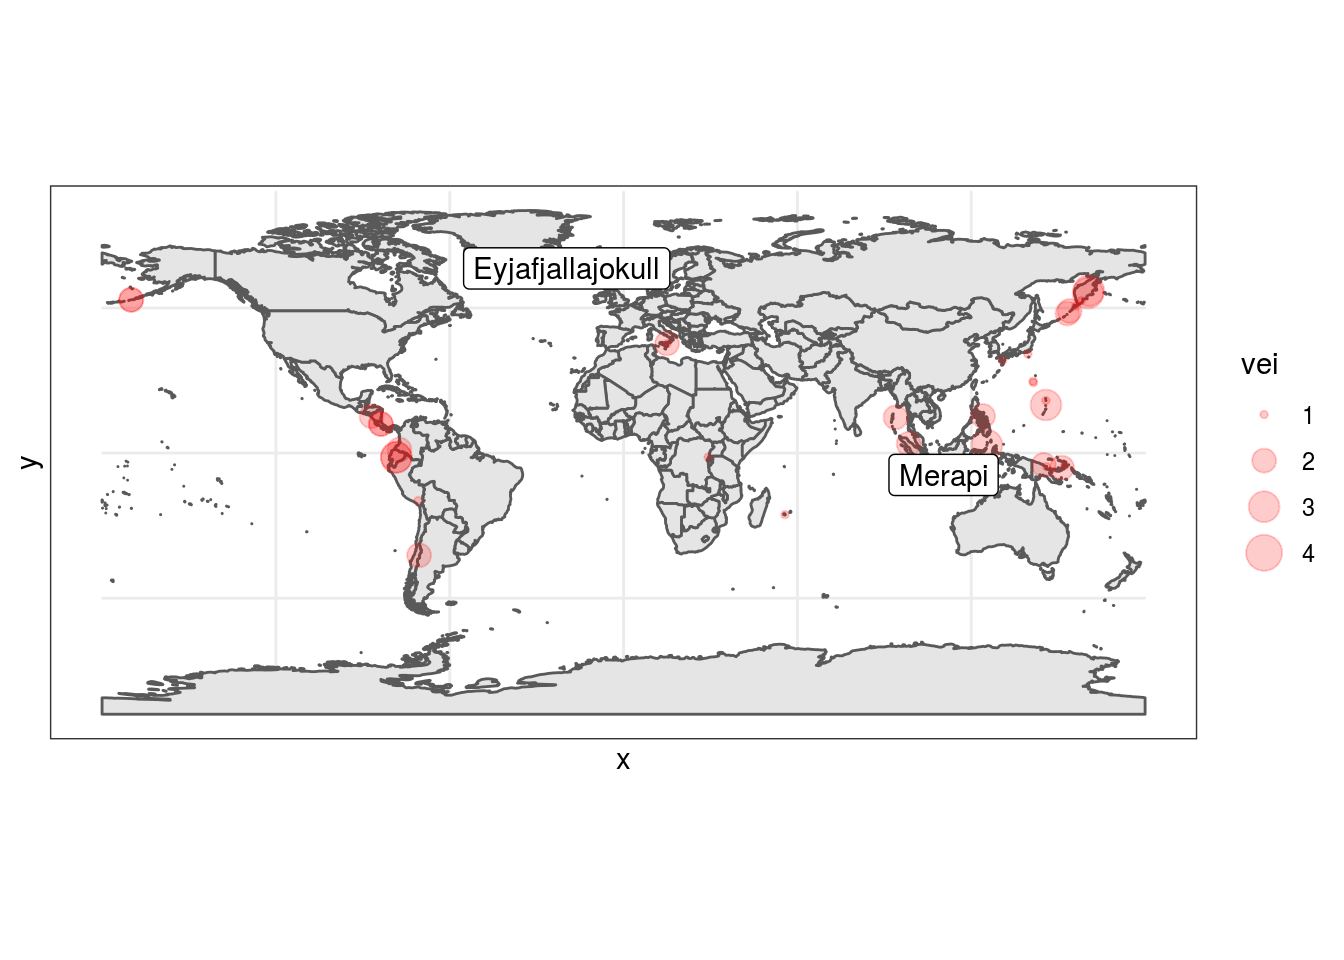
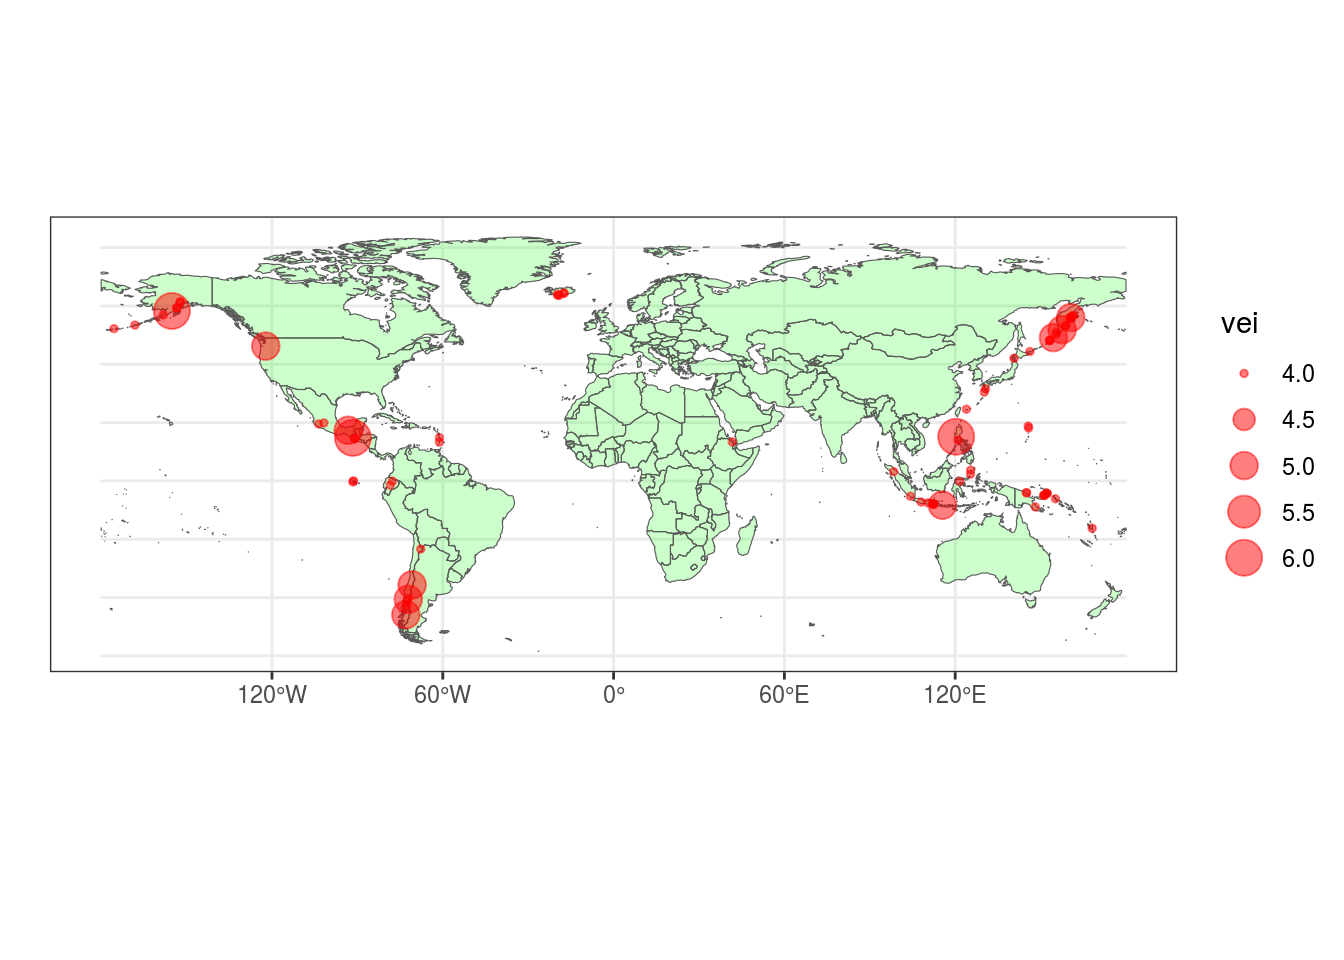
volcano plot looking okayish

Changed region(s): [[0.0625, 0.2188, 1.0, 0.75], [0.0312, 0.6875, 0.0625, 0.7188]]

diff --git a/content/post/2020-05-12-volcano-eruptions.html b/content/post/2020-05-12-volcano-eruptions.html
@@ -33,12 +33,17 @@ eruptions_sf = eruptions %&gt;%
 <pre class="r"><code>library(rnaturalearth)
 library(rnaturalearthdata)
 
-world &lt;- ne_countries(scale = &quot;medium&quot;, returnclass = &quot;sf&quot;)</code></pre>
-<pre class="r"><code>eruptions_sf %&gt;%
-  filter(start_year  == &quot;2010&quot;) %&gt;%
+world &lt;- ne_countries(scale = &quot;medium&quot;, returnclass = &quot;sf&quot;) %&gt;% filter(sovereignt != &quot;Antarctica&quot;)</code></pre>
+<pre class="r"><code>eruptions_to_plot &lt;- eruptions_sf %&gt;%
+  filter(start_year &gt; 1900) %&gt;%
+  filter(start_year &lt; 2020) %&gt;%
+  filter(vei &gt;= 4)
+
+eruptions_to_plot %&gt;%
 ggplot() +
-  geom_sf(data = world) +
-  geom_sf(aes(size = vei), alpha = .2, colour = &quot;red&quot;) +
-  geom_sf_label(aes(label = volcano_name), data = eruptions_sf %&gt;% filter(start_year == &quot;2010&quot;) %&gt;% filter(vei &gt; 3)) +
-  theme_bw()</code></pre>
+  geom_sf(data = world, alpha = .2, size = .2, fill = &quot;green&quot;) +
+  geom_sf(aes(size = vei), alpha = .5, colour = &quot;red&quot;) +
+  #geom_sf_label(aes(label = volcano_name)) +
+  theme_bw() +
+  labs(x =&quot;&quot;, y=&quot;&quot;)</code></pre>
 <p><img src="/post/2020-05-12-volcano-eruptions_files/figure-html/eruptions_plot-1.png" width="672" /></p>
